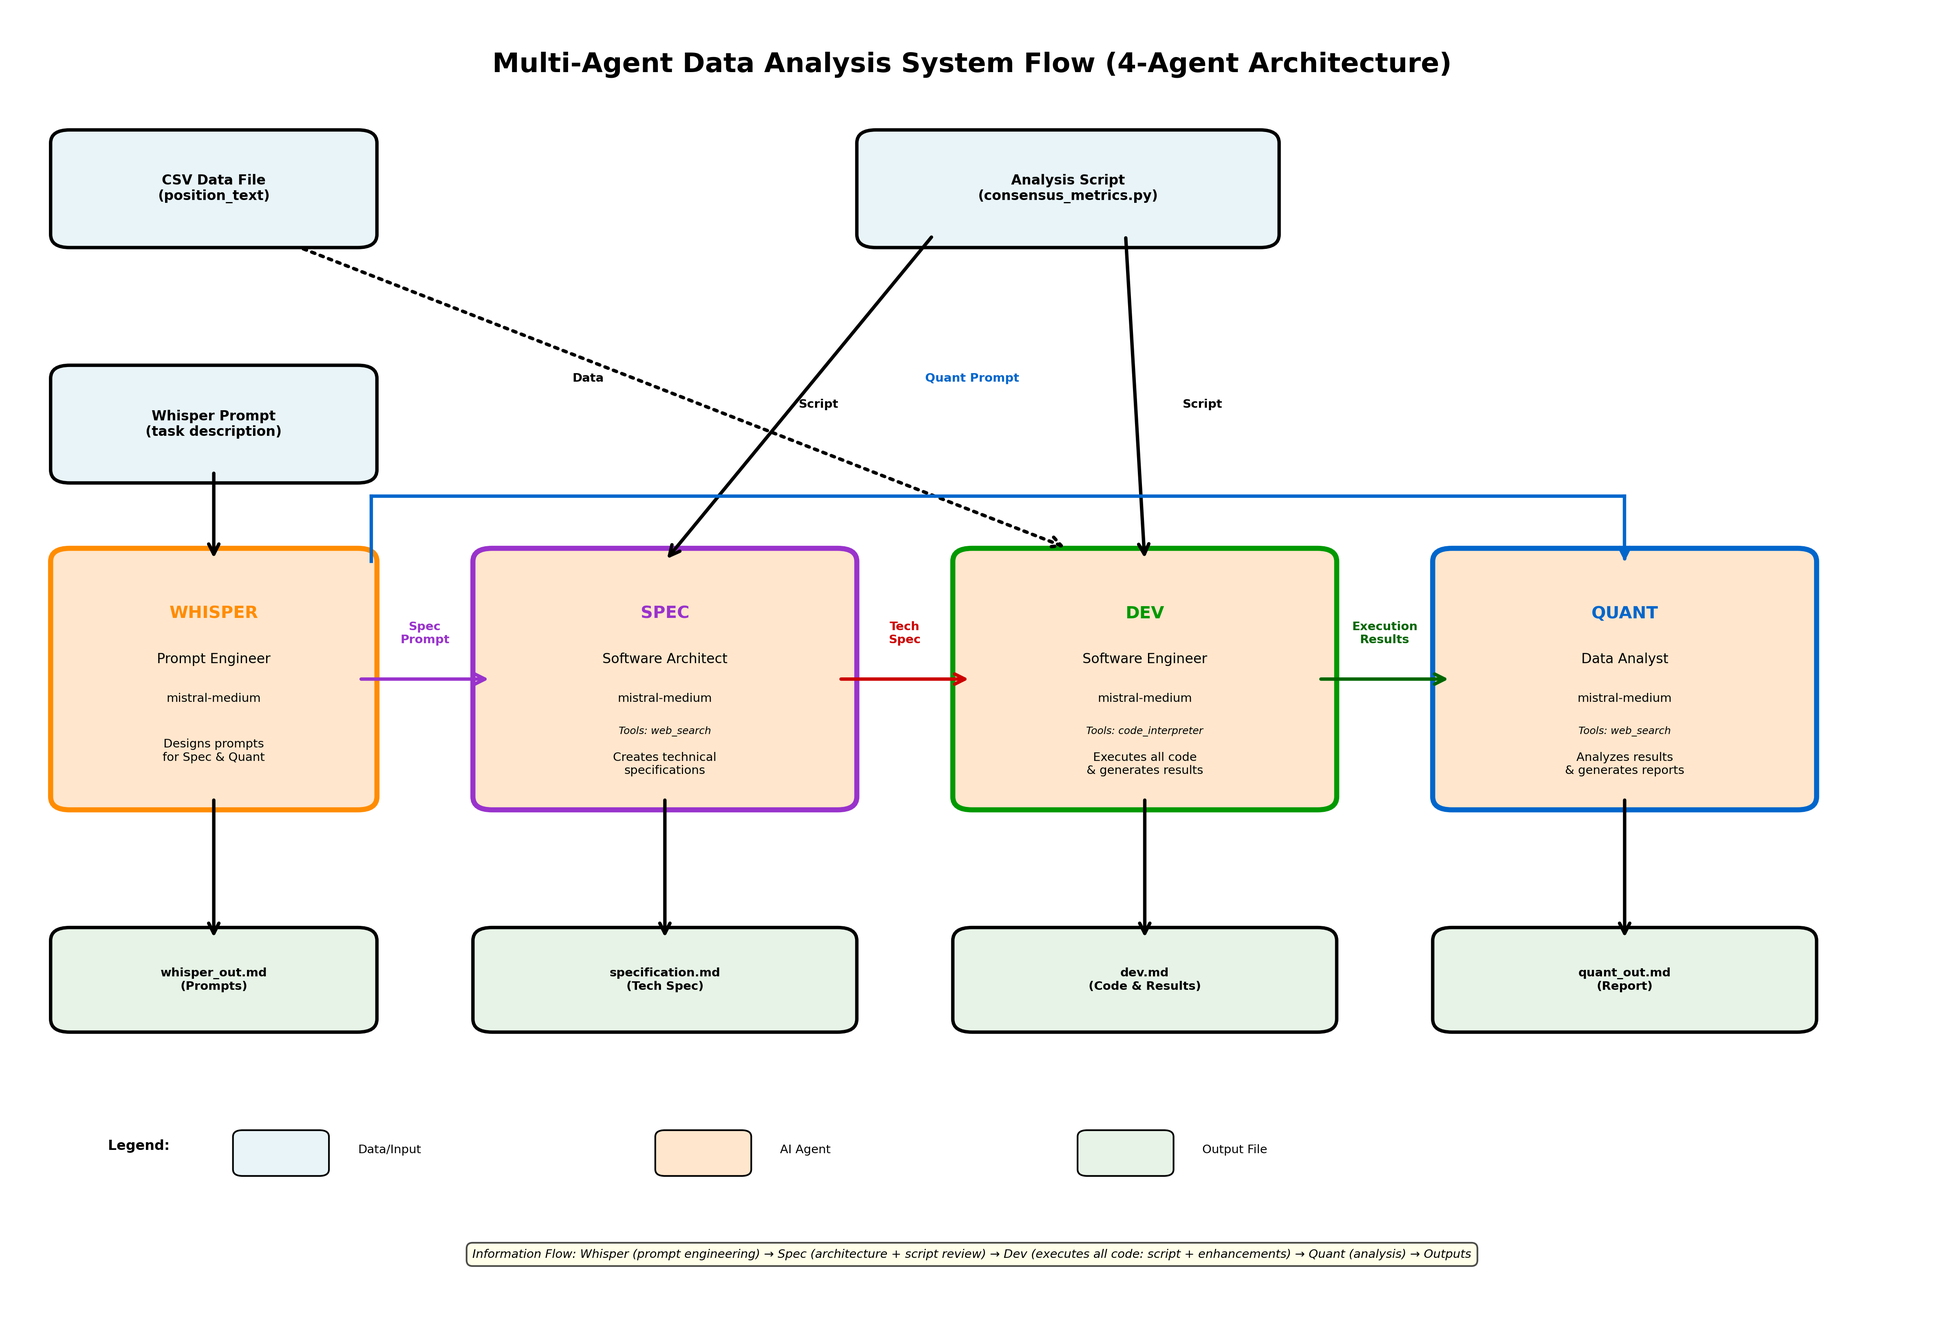
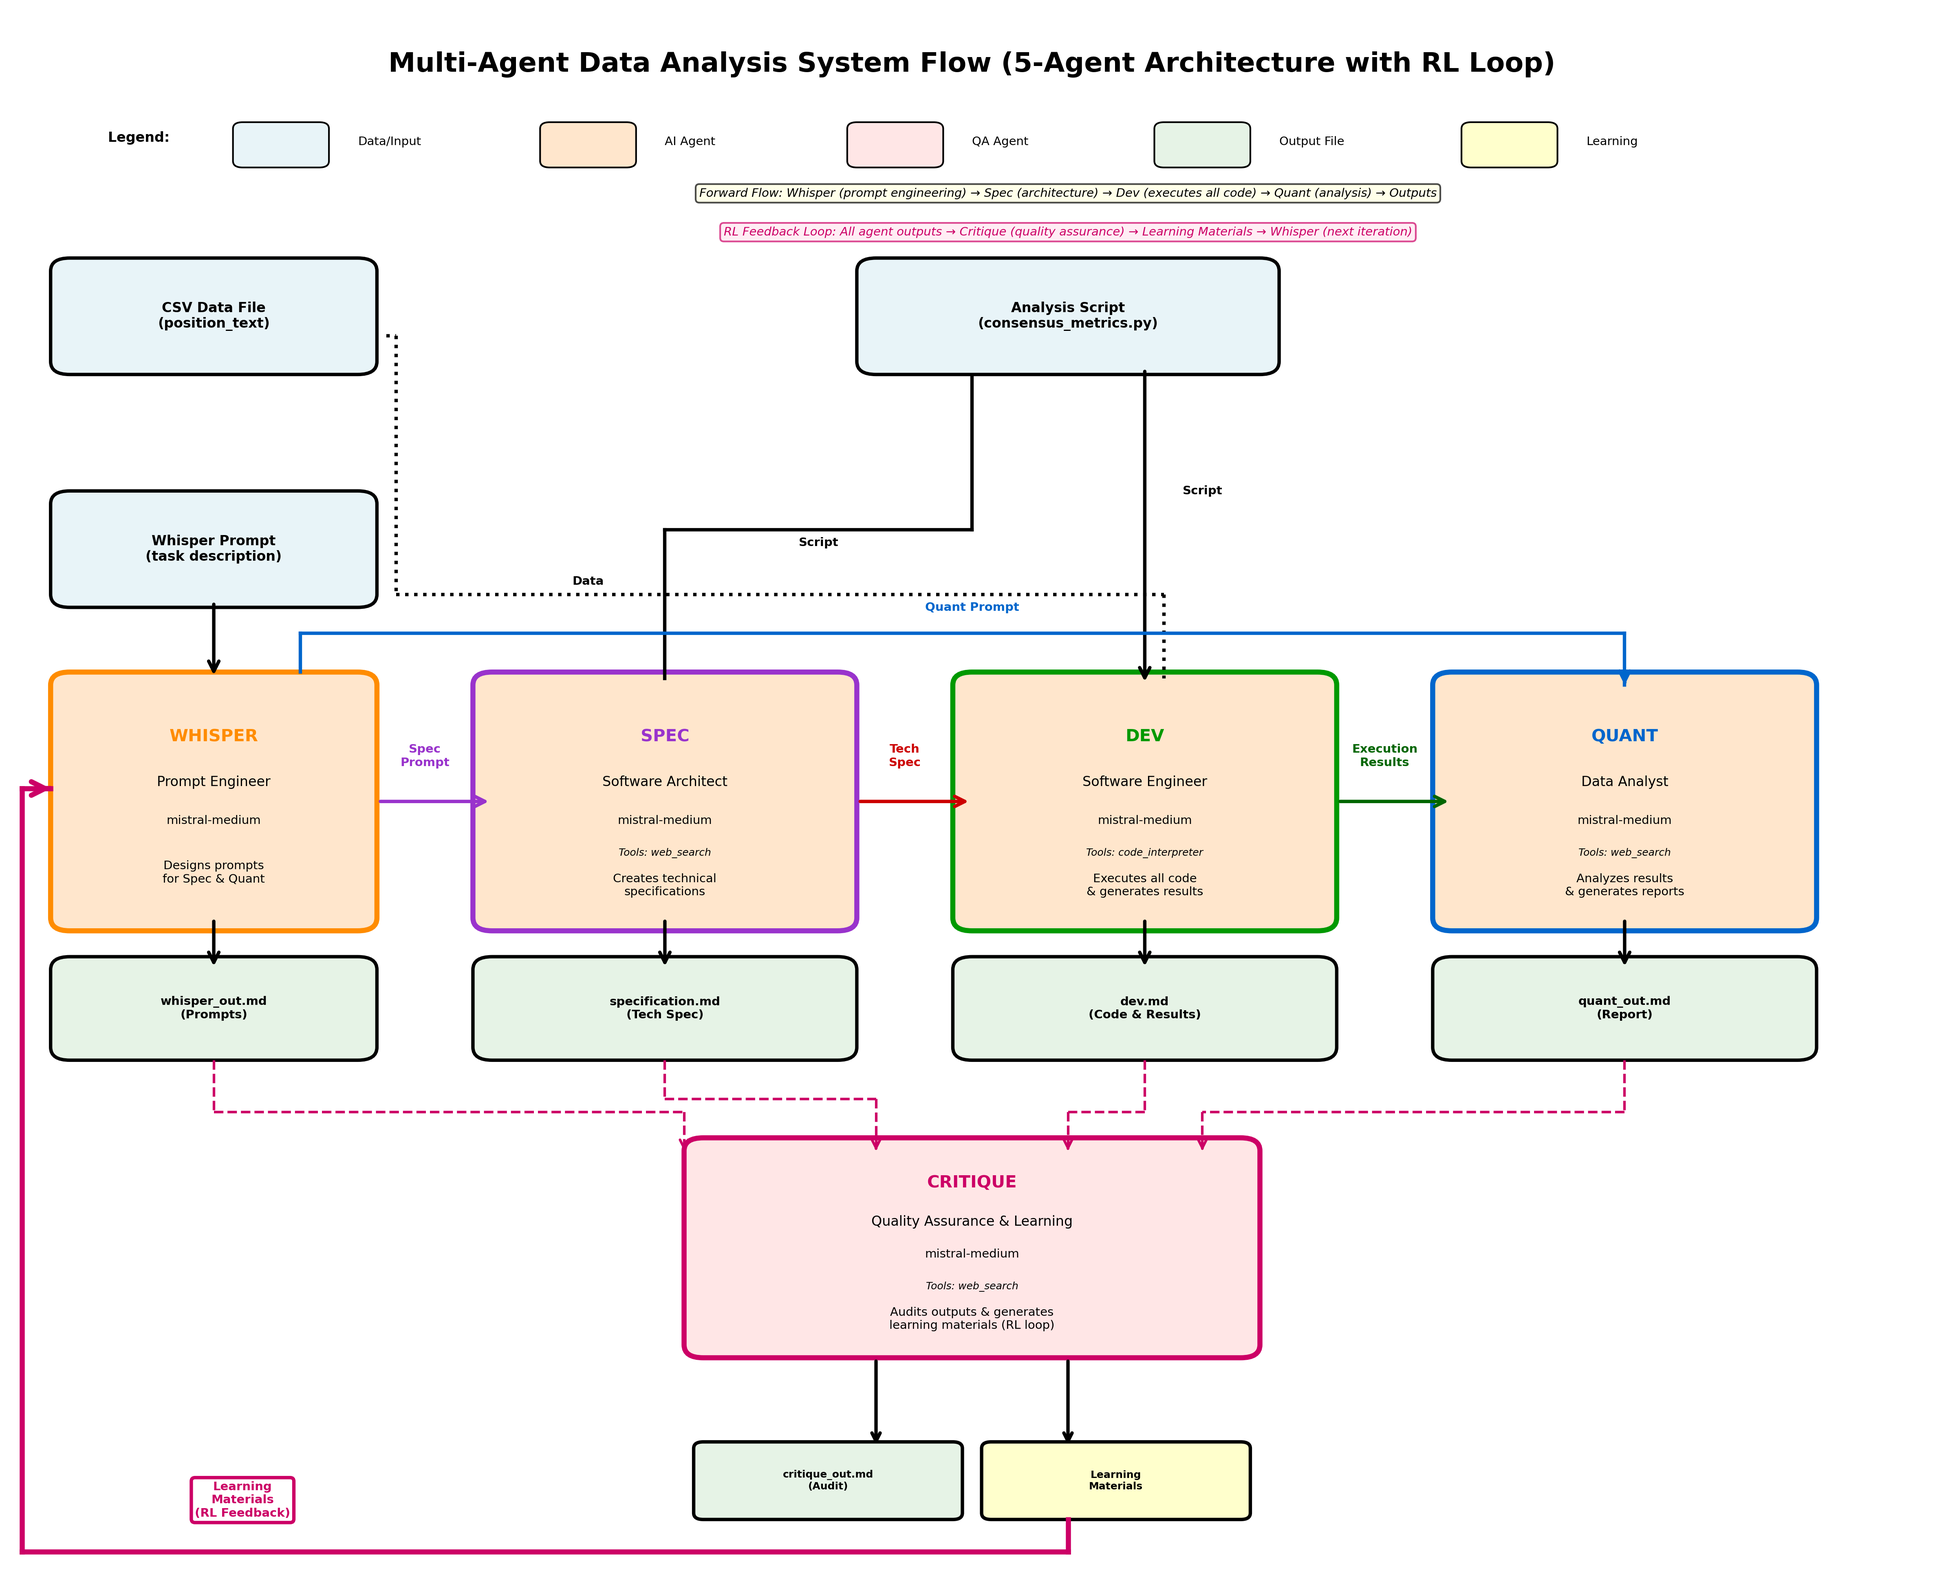
update flow diagram for critique agent

diff --git a/create_flow_diagram.py b/create_flow_diagram.py
@@ -3,9 +3,9 @@ from matplotlib.patches import FancyBboxPatch, FancyArrowPatch, ConnectionPatch
 from matplotlib.path import Path
 import matplotlib.patches as patches
 
-fig, ax = plt.subplots(figsize=(16, 11))
+fig, ax = plt.subplots(figsize=(16, 13))
 ax.set_xlim(0, 10)
-ax.set_ylim(1.5, 11.5)
+ax.set_ylim(0.5, 12.5)
 ax.axis('off')
 
 # Define colors
@@ -13,9 +13,11 @@ color_data = '#E8F4F8'
 color_agent = '#FFE6CC'
 color_output = '#E6F3E6'
 color_process = '#F0E6FF'
+color_critique = '#FFE6E6'  # Light red for critique agent
+color_feedback = '#CC0066'  # Magenta for feedback loop
 
 # Title
-ax.text(5, 11.2, 'Multi-Agent Data Analysis System Flow (4-Agent Architecture)',
+ax.text(5, 12.2, 'Multi-Agent Data Analysis System Flow (5-Agent Architecture with RL Loop)',
         ha='center', va='top', fontsize=16, fontweight='bold')
 
 # 1. Data & Script Inputs
@@ -78,49 +80,81 @@ ax.text(8.4, 6.0, 'Tools: web_search', ha='center', va='center', fontsize=6, sty
 ax.text(8.4, 5.75, 'Analyzes results\n& generates reports',
         ha='center', va='center', fontsize=7)
 
+# 7. Critique Agent (positioned to show feedback loop)
+critique_box = FancyBboxPatch((3.6, 2.2), 2.8, 1.5, boxstyle="round,pad=0.1",
+                             edgecolor='#CC0066', facecolor=color_critique, linewidth=3)
+ax.add_patch(critique_box)
+ax.text(5.0, 3.45, 'CRITIQUE', ha='center', va='center', fontsize=10, fontweight='bold', color='#CC0066')
+ax.text(5.0, 3.15, 'Quality Assurance & Learning', ha='center', va='center', fontsize=8)
+ax.text(5.0, 2.9, 'mistral-medium', ha='center', va='center', fontsize=7)
+ax.text(5.0, 2.65, 'Tools: web_search', ha='center', va='center', fontsize=6, style='italic')
+ax.text(5.0, 2.4, 'Audits outputs & generates\nlearning materials (RL loop)',
+        ha='center', va='center', fontsize=7)
+
 # Arrow from whisper prompt to whisper agent
-arrow1 = FancyArrowPatch((1.05, 8.0), (1.05, 7.3),
+arrow1 = FancyArrowPatch((1.05, 7.95), (1.05, 7.35),
                         arrowstyle='->', mutation_scale=15, linewidth=2, color='black',
                         connectionstyle="arc3,rad=0")
 ax.add_patch(arrow1)
 
-# Arrow from script to Spec
-arrow2 = FancyArrowPatch((4.8, 9.8), (3.4, 7.3),
-                        arrowstyle='->', mutation_scale=15, linewidth=2, color='black',
-                        connectionstyle="arc3,rad=0")
+# Arrow from script to Spec (routed around)
+# Script box bottom center: (5.5, 9.8), Spec box top center: (3.4, 7.3)
+script_to_spec_waypoints = [
+    (5.0, 9.68),     # Start: left side of script box
+    (5.0, 8.5),     # Go down
+    (3.4, 8.5),     # Go left above agents
+    (3.4, 7.35)      # Go down to Spec top
+]
+for i in range(len(script_to_spec_waypoints) - 1):
+    ax.plot([script_to_spec_waypoints[i][0], script_to_spec_waypoints[i+1][0]],
+            [script_to_spec_waypoints[i][1], script_to_spec_waypoints[i+1][1]],
+            color='black', linewidth=2)
+arrow2 = FancyArrowPatch((3.4, 7.35), (3.4, 7.35),
+                        arrowstyle='->', mutation_scale=15, linewidth=2, color='black')
 ax.add_patch(arrow2)
-ax.text(4.2, 8.5, 'Script', ha='center', va='center', fontsize=7, fontweight='bold')
+ax.text(4.2, 8.4, 'Script', ha='center', va='center', fontsize=7, fontweight='bold')
 
-# Arrow from data to Dev
-arrow3 = FancyArrowPatch((1.5, 9.7), (5.5, 7.4),
-                        arrowstyle='->', mutation_scale=15, linewidth=2, color='black', linestyle='dotted',
-                        connectionstyle="arc3,rad=0")
+# Arrow from data to Dev (routed around boxes)
+# Data box: (1.05, 9.8), Dev box: (5.9, 7.3)
+data_to_dev_waypoints = [
+    (1.95, 10.0),    # Start: right side of data box
+    (2.0, 10.0),    # Go right
+    (2.0, 8.0),     # Go down (between Whisper and Spec)
+    (6.0, 8.0),     # Go right above Dev
+    (6.0, 7.35)      # Go down to Dev top
+]
+for i in range(len(data_to_dev_waypoints) - 1):
+    ax.plot([data_to_dev_waypoints[i][0], data_to_dev_waypoints[i+1][0]],
+            [data_to_dev_waypoints[i][1], data_to_dev_waypoints[i+1][1]],
+            color='black', linewidth=2, linestyle='dotted')
+arrow3 = FancyArrowPatch((6.0, 7.35), (6.0, 7.35),
+                        arrowstyle='->', mutation_scale=15, linewidth=2, color='black')
 ax.add_patch(arrow3)
-ax.text(3.0, 8.7, 'Data', ha='center', va='center', fontsize=7, fontweight='bold')
+ax.text(3.0, 8.1, 'Data', ha='center', va='center', fontsize=7, fontweight='bold')
 
 # Arrow from script to Dev
-arrow4 = FancyArrowPatch((5.8, 9.8), (5.9, 7.3),
+arrow4 = FancyArrowPatch((5.9, 9.75), (5.9, 7.3),
                         arrowstyle='->', mutation_scale=15, linewidth=2, color='black',
                         connectionstyle="arc3,rad=0")
 ax.add_patch(arrow4)
-ax.text(6.2, 8.5, 'Script', ha='center', va='center', fontsize=7, fontweight='bold')
+ax.text(6.2, 8.8, 'Script', ha='center', va='center', fontsize=7, fontweight='bold')
 
 # Arrow from Whisper to Spec (horizontal)
-arrow5 = FancyArrowPatch((1.8, 6.4), (2.5, 6.4),
+arrow5 = FancyArrowPatch((1.9, 6.4), (2.5, 6.4),
                         arrowstyle='->', mutation_scale=15, linewidth=2, color='#9933CC',
                         connectionstyle="arc3,rad=0")
 ax.add_patch(arrow5)
 ax.text(2.15, 6.75, 'Spec\nPrompt', ha='center', va='center', fontsize=7, color='#9933CC', fontweight='bold')
 
 # Arrow from Spec to Dev (horizontal)
-arrow6 = FancyArrowPatch((4.3, 6.4), (5.0, 6.4),
+arrow6 = FancyArrowPatch((4.4, 6.4), (5.0, 6.4),
                         arrowstyle='->', mutation_scale=15, linewidth=2, color='#CC0000',
                         connectionstyle="arc3,rad=0")
 ax.add_patch(arrow6)
 ax.text(4.65, 6.75, 'Tech\nSpec', ha='center', va='center', fontsize=7, color='#CC0000', fontweight='bold')
 
 # Arrow from Dev to Quant (horizontal)
-arrow7 = FancyArrowPatch((6.8, 6.4), (7.5, 6.4),
+arrow7 = FancyArrowPatch((6.9, 6.4), (7.5, 6.4),
                         arrowstyle='->', mutation_scale=15, linewidth=2, color='#006600',
                         connectionstyle="arc3,rad=0")
 ax.add_patch(arrow7)
@@ -130,10 +164,10 @@ ax.text(7.15, 6.75, 'Execution\nResults', ha='center', va='center', fontsize=7, 
 # WHISPER box: (0.3, 5.5) with width=1.5, height=1.8, so top-right corner is at (1.8, 7.3)
 # QUANT box: (7.5, 5.5) with width=1.8, height=1.8, so top edge center is at (8.4, 7.3)
 waypoints = [
-    (1.87, 7.3),    # Start: top-right corner of WHISPER box
-    (1.87, 7.8),    # Go up
-    (8.4, 7.8),    # Go across above all boxes
-    (8.4, 7.35)    # Go down to just above QUANT top edge
+    (1.5, 7.4),    # Start: top-right corner of WHISPER box
+    (1.5, 7.7),    # Go up
+    (8.4, 7.7),    # Go across above all boxes
+    (8.4, 7.3)    # Go down to just above QUANT top edge
 ]
 
 # Draw the path with line segments
@@ -147,62 +181,176 @@ arrow8 = FancyArrowPatch((8.4, 7.35), (8.4, 7.3),
                         arrowstyle='->', mutation_scale=15, linewidth=2, color='#0066CC',
                         connectionstyle="arc3,rad=0")
 ax.add_patch(arrow8)
-ax.text(5.0, 8.7, 'Quant Prompt', ha='center', va='center', fontsize=7, color='#0066CC', fontweight='bold')
+ax.text(5.0, 7.9, 'Quant Prompt', ha='center', va='center', fontsize=7, color='#0066CC', fontweight='bold')
 
-# 7. Outputs
-whisper_output = FancyBboxPatch((0.3, 3.8), 1.5, 0.6, boxstyle="round,pad=0.1",
+# 8. Outputs (moved down to make room for Critique)
+whisper_output = FancyBboxPatch((0.3, 4.5), 1.5, 0.6, boxstyle="round,pad=0.1",
                                edgecolor='black', facecolor=color_output, linewidth=2)
 ax.add_patch(whisper_output)
-ax.text(1.05, 4.1, 'whisper_out.md\n(Prompts)', ha='center', va='center', fontsize=7, fontweight='bold')
+ax.text(1.05, 4.8, 'whisper_out.md\n(Prompts)', ha='center', va='center', fontsize=7, fontweight='bold')
 
-spec_output = FancyBboxPatch((2.5, 3.8), 1.8, 0.6, boxstyle="round,pad=0.1",
+spec_output = FancyBboxPatch((2.5, 4.5), 1.8, 0.6, boxstyle="round,pad=0.1",
                              edgecolor='black', facecolor=color_output, linewidth=2)
 ax.add_patch(spec_output)
-ax.text(3.4, 4.1, 'specification.md\n(Tech Spec)', ha='center', va='center', fontsize=7, fontweight='bold')
+ax.text(3.4, 4.8, 'specification.md\n(Tech Spec)', ha='center', va='center', fontsize=7, fontweight='bold')
 
-dev_output = FancyBboxPatch((5, 3.8), 1.8, 0.6, boxstyle="round,pad=0.1",
+dev_output = FancyBboxPatch((5, 4.5), 1.8, 0.6, boxstyle="round,pad=0.1",
                            edgecolor='black', facecolor=color_output, linewidth=2)
 ax.add_patch(dev_output)
-ax.text(5.9, 4.1, 'dev.md\n(Code & Results)', ha='center', va='center', fontsize=7, fontweight='bold')
+ax.text(5.9, 4.8, 'dev.md\n(Code & Results)', ha='center', va='center', fontsize=7, fontweight='bold')
 
-quant_output = FancyBboxPatch((7.5, 3.8), 1.8, 0.6, boxstyle="round,pad=0.1",
+quant_output = FancyBboxPatch((7.5, 4.5), 1.8, 0.6, boxstyle="round,pad=0.1",
                              edgecolor='black', facecolor=color_output, linewidth=2)
 ax.add_patch(quant_output)
-ax.text(8.4, 4.1, 'quant_out.md\n(Report)', ha='center', va='center', fontsize=7, fontweight='bold')
+ax.text(8.4, 4.8, 'quant_out.md\n(Report)', ha='center', va='center', fontsize=7, fontweight='bold')
 
-# Arrows to outputs
-arrow9 = FancyArrowPatch((1.05, 5.5), (1.05, 4.4),
+# Critique outputs
+critique_output = FancyBboxPatch((3.6, 0.9), 1.3, 0.5, boxstyle="round,pad=0.05",
+                                edgecolor='black', facecolor=color_output, linewidth=2)
+ax.add_patch(critique_output)
+ax.text(4.25, 1.15, 'critique_out.md\n(Audit)', ha='center', va='center', fontsize=6, fontweight='bold')
+
+learning_output = FancyBboxPatch((5.1, 0.9), 1.3, 0.5, boxstyle="round,pad=0.05",
+                                edgecolor='black', facecolor='#FFFFCC', linewidth=2)
+ax.add_patch(learning_output)
+ax.text(5.75, 1.15, 'Learning\nMaterials', ha='center', va='center', fontsize=6, fontweight='bold')
+
+# Arrows to outputs (from agents)
+arrow9 = FancyArrowPatch((1.05, 5.5), (1.05, 5.1),
                         arrowstyle='->', mutation_scale=15, linewidth=2, color='black',
                         connectionstyle="arc3,rad=0")
 ax.add_patch(arrow9)
 
-arrow10 = FancyArrowPatch((3.4, 5.5), (3.4, 4.4),
+arrow10 = FancyArrowPatch((3.4, 5.5), (3.4, 5.1),
                          arrowstyle='->', mutation_scale=15, linewidth=2, color='black',
                          connectionstyle="arc3,rad=0")
 ax.add_patch(arrow10)
 
-arrow11 = FancyArrowPatch((5.9, 5.5), (5.9, 4.4),
+arrow11 = FancyArrowPatch((5.9, 5.5), (5.9, 5.1),
                          arrowstyle='->', mutation_scale=15, linewidth=2, color='black',
                          connectionstyle="arc3,rad=0")
 ax.add_patch(arrow11)
 
-arrow12 = FancyArrowPatch((8.4, 5.5), (8.4, 4.4),
+arrow12 = FancyArrowPatch((8.4, 5.5), (8.4, 5.1),
                          arrowstyle='->', mutation_scale=15, linewidth=2, color='black',
                          connectionstyle="arc3,rad=0")
 ax.add_patch(arrow12)
 
-# Legend
-legend_y = 2.8
+# Arrows from agent outputs to Critique (routed with straight lines)
+# Critique box: (3.6, 2.2) to (6.4, 3.7)
+
+# Whisper output to Critique (route around left side)
+whisper_to_critique_waypoints = [
+    (1.05, 4.4),    # Start: bottom of whisper output
+    (1.05, 4.0),    # Go down
+    (3.5, 4.0),     # Go right
+    (3.5, 3.7)      # Go down to Critique top
+]
+for i in range(len(whisper_to_critique_waypoints) - 1):
+    ax.plot([whisper_to_critique_waypoints[i][0], whisper_to_critique_waypoints[i+1][0]],
+            [whisper_to_critique_waypoints[i][1], whisper_to_critique_waypoints[i+1][1]],
+            color=color_feedback, linewidth=1.5, linestyle='dashed')
+arrow13 = FancyArrowPatch((3.5, 3.75), (3.5, 3.7),
+                         arrowstyle='->', mutation_scale=12, linewidth=1.5, color=color_feedback)
+ax.add_patch(arrow13)
+
+# Spec output to Critique (almost straight down)
+spec_to_critique_waypoints = [
+    (3.4, 4.4),     # Start: bottom of spec output
+    (3.4, 4.1),     # Go down
+    (4.5, 4.1),     # Go right
+    (4.5, 3.7)      # Go down to Critique top
+]
+for i in range(len(spec_to_critique_waypoints) - 1):
+    ax.plot([spec_to_critique_waypoints[i][0], spec_to_critique_waypoints[i+1][0]],
+            [spec_to_critique_waypoints[i][1], spec_to_critique_waypoints[i+1][1]],
+            color=color_feedback, linewidth=1.5, linestyle='dashed')
+arrow14 = FancyArrowPatch((4.5, 3.75), (4.5, 3.7),
+                         arrowstyle='->', mutation_scale=12, linewidth=1.5, color=color_feedback)
+ax.add_patch(arrow14)
+
+# Dev output to Critique (almost straight down)
+dev_to_critique_waypoints = [
+    (5.9, 4.4),     # Start: bottom of dev output
+    (5.9, 4.0),     # Go down
+    (5.5, 4.0),     # Go left slightly
+    (5.5, 3.7)      # Go down to Critique top
+]
+for i in range(len(dev_to_critique_waypoints) - 1):
+    ax.plot([dev_to_critique_waypoints[i][0], dev_to_critique_waypoints[i+1][0]],
+            [dev_to_critique_waypoints[i][1], dev_to_critique_waypoints[i+1][1]],
+            color=color_feedback, linewidth=1.5, linestyle='dashed')
+arrow15 = FancyArrowPatch((5.5, 3.75), (5.5, 3.7),
+                         arrowstyle='->', mutation_scale=12, linewidth=1.5, color=color_feedback)
+ax.add_patch(arrow15)
+
+# Quant output to Critique (route around right side)
+quant_to_critique_waypoints = [
+    (8.4, 4.4),     # Start: bottom of quant output
+    (8.4, 4.0),     # Go down
+    (6.2, 4.0),     # Go left
+    (6.2, 3.7)      # Go down to Critique top
+]
+for i in range(len(quant_to_critique_waypoints) - 1):
+    ax.plot([quant_to_critique_waypoints[i][0], quant_to_critique_waypoints[i+1][0]],
+            [quant_to_critique_waypoints[i][1], quant_to_critique_waypoints[i+1][1]],
+            color=color_feedback, linewidth=1.5, linestyle='dashed')
+arrow16 = FancyArrowPatch((6.2, 3.75), (6.2, 3.7),
+                         arrowstyle='->', mutation_scale=12, linewidth=1.5, color=color_feedback)
+ax.add_patch(arrow16)
+
+# Arrows from Critique to its outputs
+arrow17 = FancyArrowPatch((4.5, 2.1), (4.5, 1.4),
+                         arrowstyle='->', mutation_scale=12, linewidth=2, color='black',
+                         connectionstyle="arc3,rad=0")
+ax.add_patch(arrow17)
+
+arrow18 = FancyArrowPatch((5.5, 2.1), (5.5, 1.4),
+                         arrowstyle='->', mutation_scale=12, linewidth=2, color='black',
+                         connectionstyle="arc3,rad=0")
+ax.add_patch(arrow18)
+
+# Feedback loop: Learning Materials back to Whisper (RL loop)
+# Create a curved arrow from learning materials back to Whisper
+feedback_waypoints = [
+    (5.5, 0.85),    # Start: left edge of learning materials
+    (5.5, 0.6),    # Go down
+    (0.05, 0.6),     # Go left
+    (0.05, 6.5),      # Go up
+    (0.2, 6.5)     # Go right to end
+]
+
+# Draw the feedback path
+for i in range(len(feedback_waypoints) - 1):
+    ax.plot([feedback_waypoints[i][0], feedback_waypoints[i+1][0]],
+            [feedback_waypoints[i][1], feedback_waypoints[i+1][1]],
+            color=color_feedback, linewidth=3, linestyle='solid')
+
+# Add arrowhead at Whisper
+arrow19 = FancyArrowPatch((0.18, 6.5), (0.2, 6.5),
+                         arrowstyle='->', mutation_scale=20, linewidth=3, color=color_feedback,
+                         connectionstyle="arc3,rad=0")
+ax.add_patch(arrow19)
+
+# Label for feedback loop
+ax.text(1.2, 1.0, 'Learning\nMaterials\n(RL Feedback)', ha='center', va='center',
+        fontsize=7, color=color_feedback, fontweight='bold',
+        bbox=dict(boxstyle='round,pad=0.3', facecolor='white', edgecolor=color_feedback, linewidth=2))
+
+# Legend (moved down)
+legend_y = 11.5
 ax.text(0.5, legend_y, 'Legend:', fontsize=8, fontweight='bold')
 
 legend_items = [
     (color_data, 'Data/Input'),
     (color_agent, 'AI Agent'),
-    (color_output, 'Output File')
+    (color_critique, 'QA Agent'),
+    (color_output, 'Output File'),
+    ('#FFFFCC', 'Learning')
 ]
 
 for i, (color, label) in enumerate(legend_items):
-    x_pos = 1.5 + i * 2.2
+    x_pos = 1.5 + i * 1.6
     legend_box = FancyBboxPatch((x_pos - 0.3, legend_y - 0.15), 0.4, 0.25,
                                boxstyle="round,pad=0.05", edgecolor='black',
                                facecolor=color, linewidth=1)
@@ -210,9 +358,13 @@ for i, (color, label) in enumerate(legend_items):
     ax.text(x_pos + 0.3, legend_y, label, fontsize=7, va='center')
 
 # Add flow notes
-ax.text(5, 2.0, 'Information Flow: Whisper (prompt engineering) → Spec (architecture + script review) → Dev (executes all code: script + enhancements) → Quant (analysis) → Outputs',
+ax.text(5.5, 11.1, 'Forward Flow: Whisper (prompt engineering) → Spec (architecture) → Dev (executes all code) → Quant (analysis) → Outputs',
         ha='center', va='center', fontsize=7, style='italic',
-        bbox=dict(boxstyle='round,pad=0.5', facecolor='lightyellow', alpha=0.7))
+        bbox=dict(boxstyle='round,pad=0.3', facecolor='lightyellow', alpha=0.7))
+
+ax.text(5.5, 10.8, 'RL Feedback Loop: All agent outputs → Critique (quality assurance) → Learning Materials → Whisper (next iteration)',
+        ha='center', va='center', fontsize=7, style='italic', color=color_feedback,
+        bbox=dict(boxstyle='round,pad=0.3', facecolor='#FFE6F0', alpha=0.7, edgecolor=color_feedback))
 
 plt.tight_layout()
 
